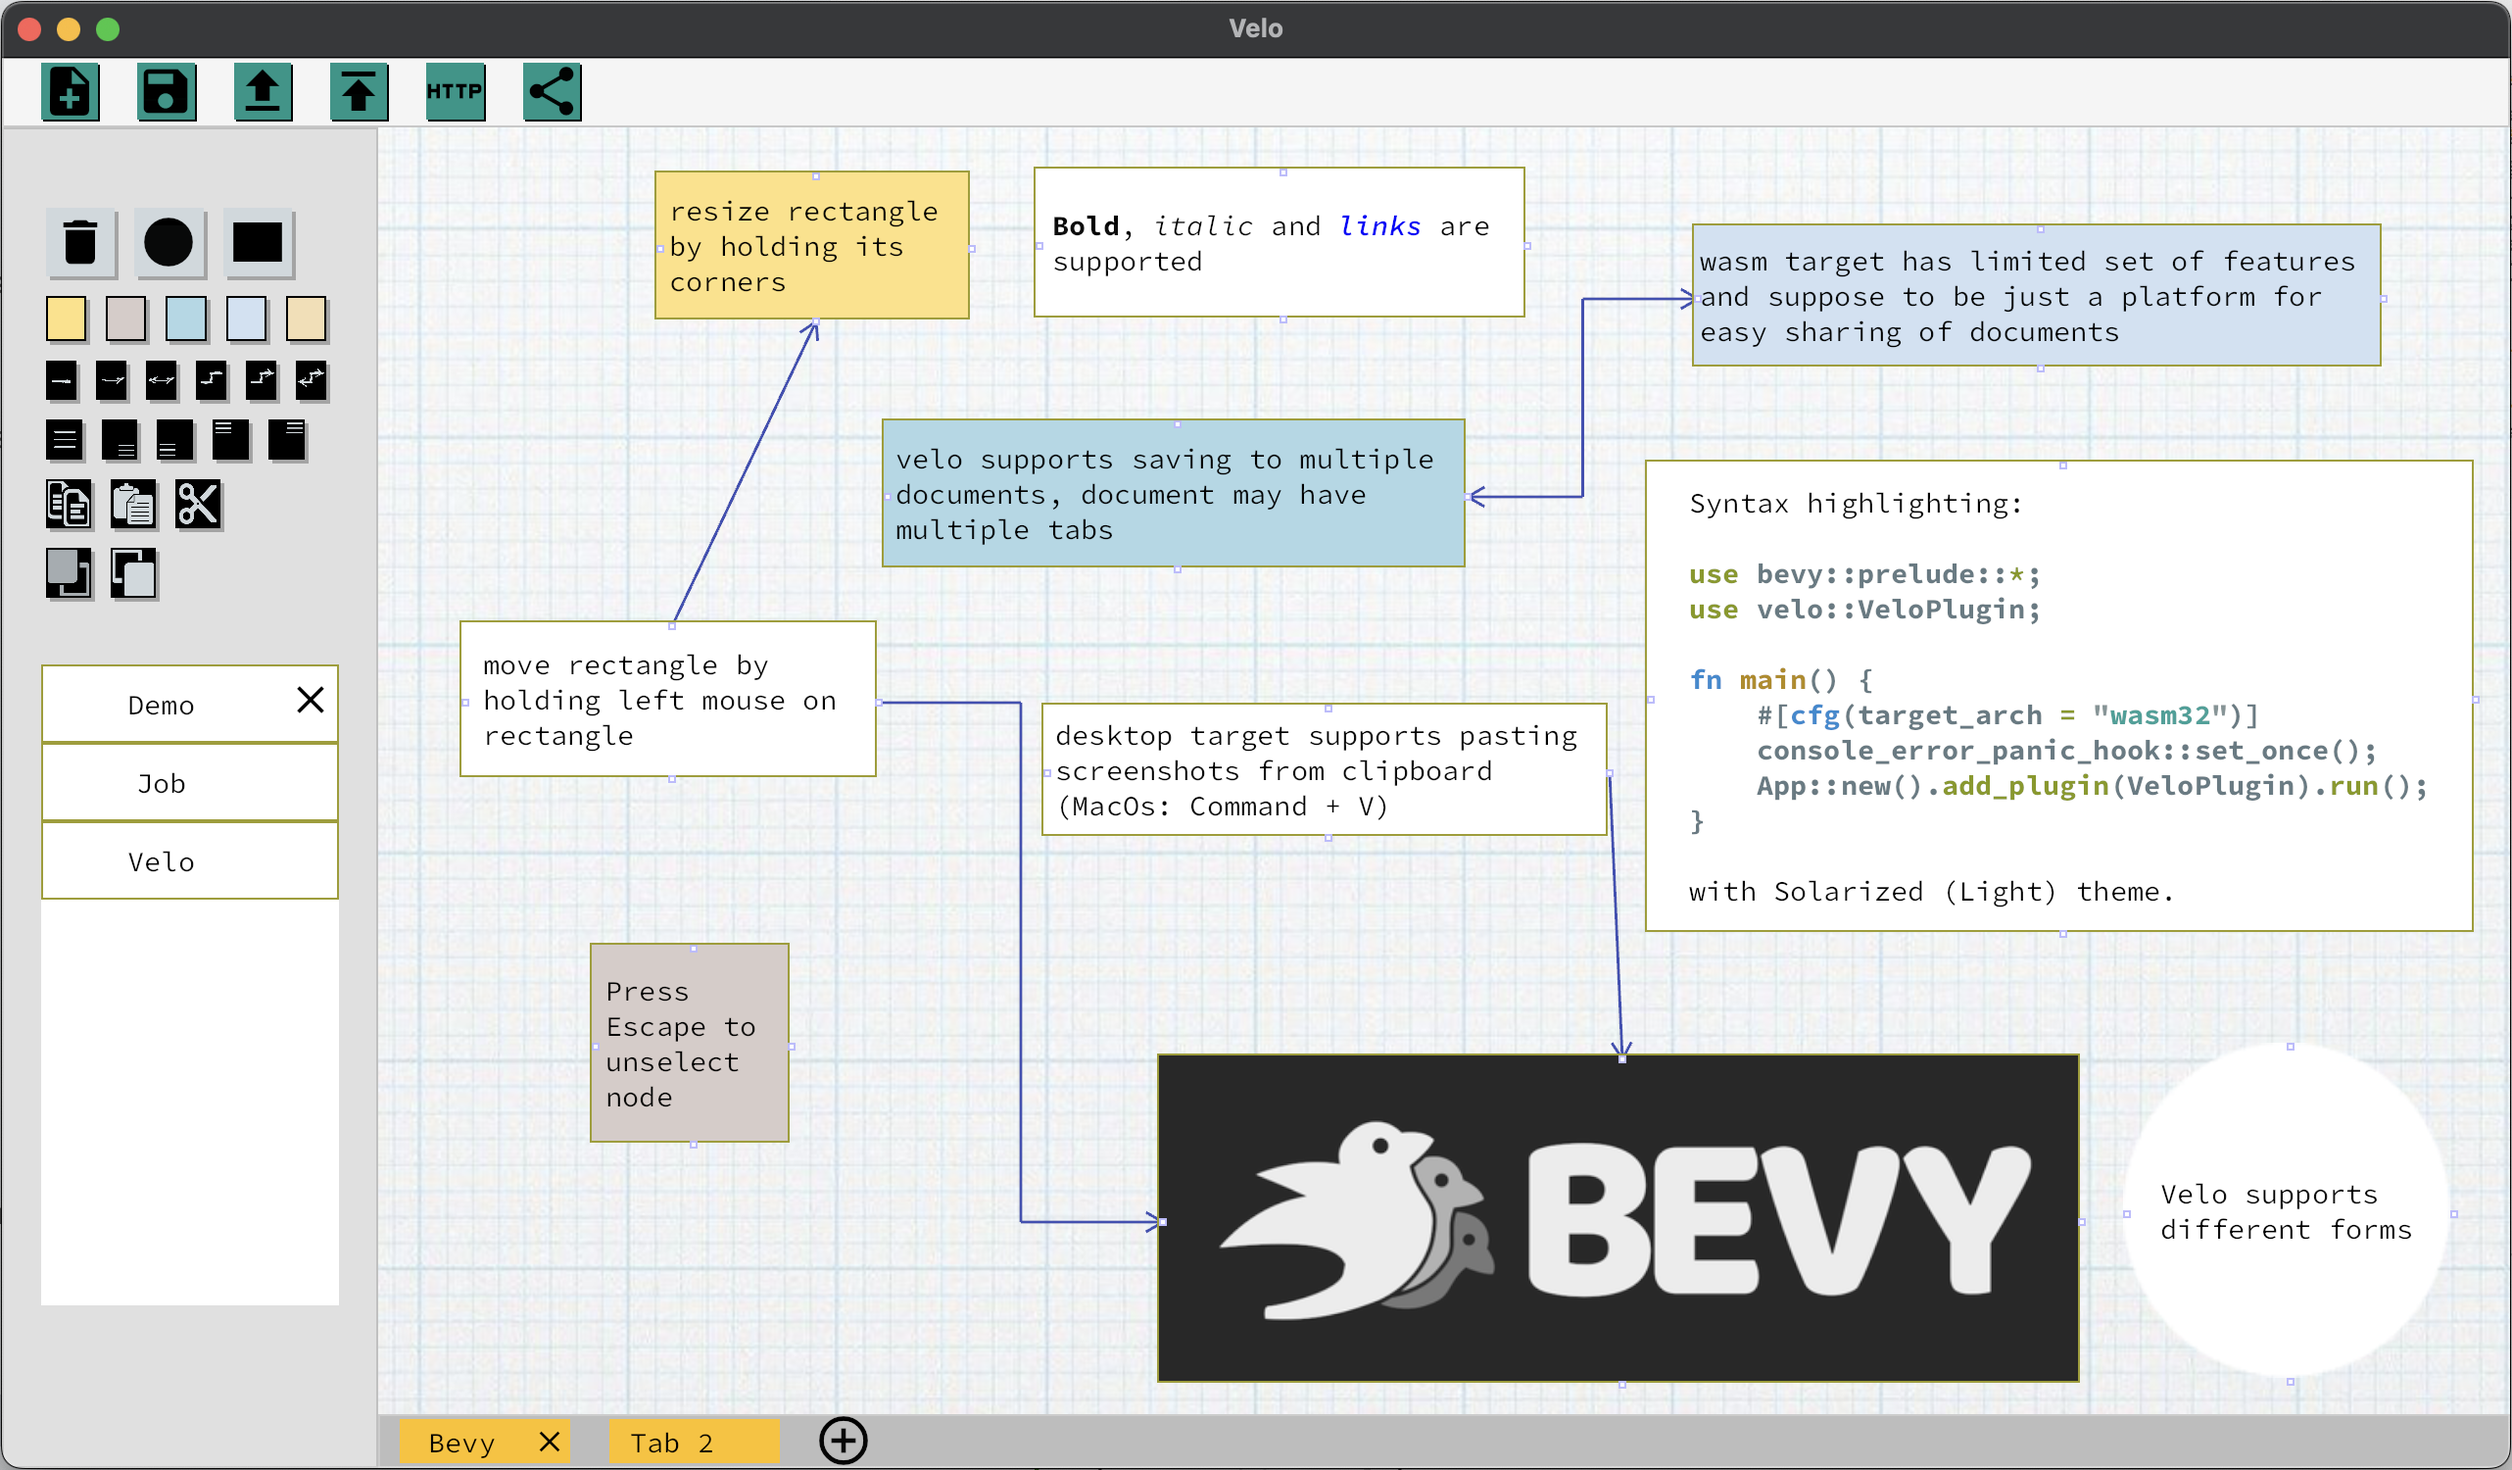
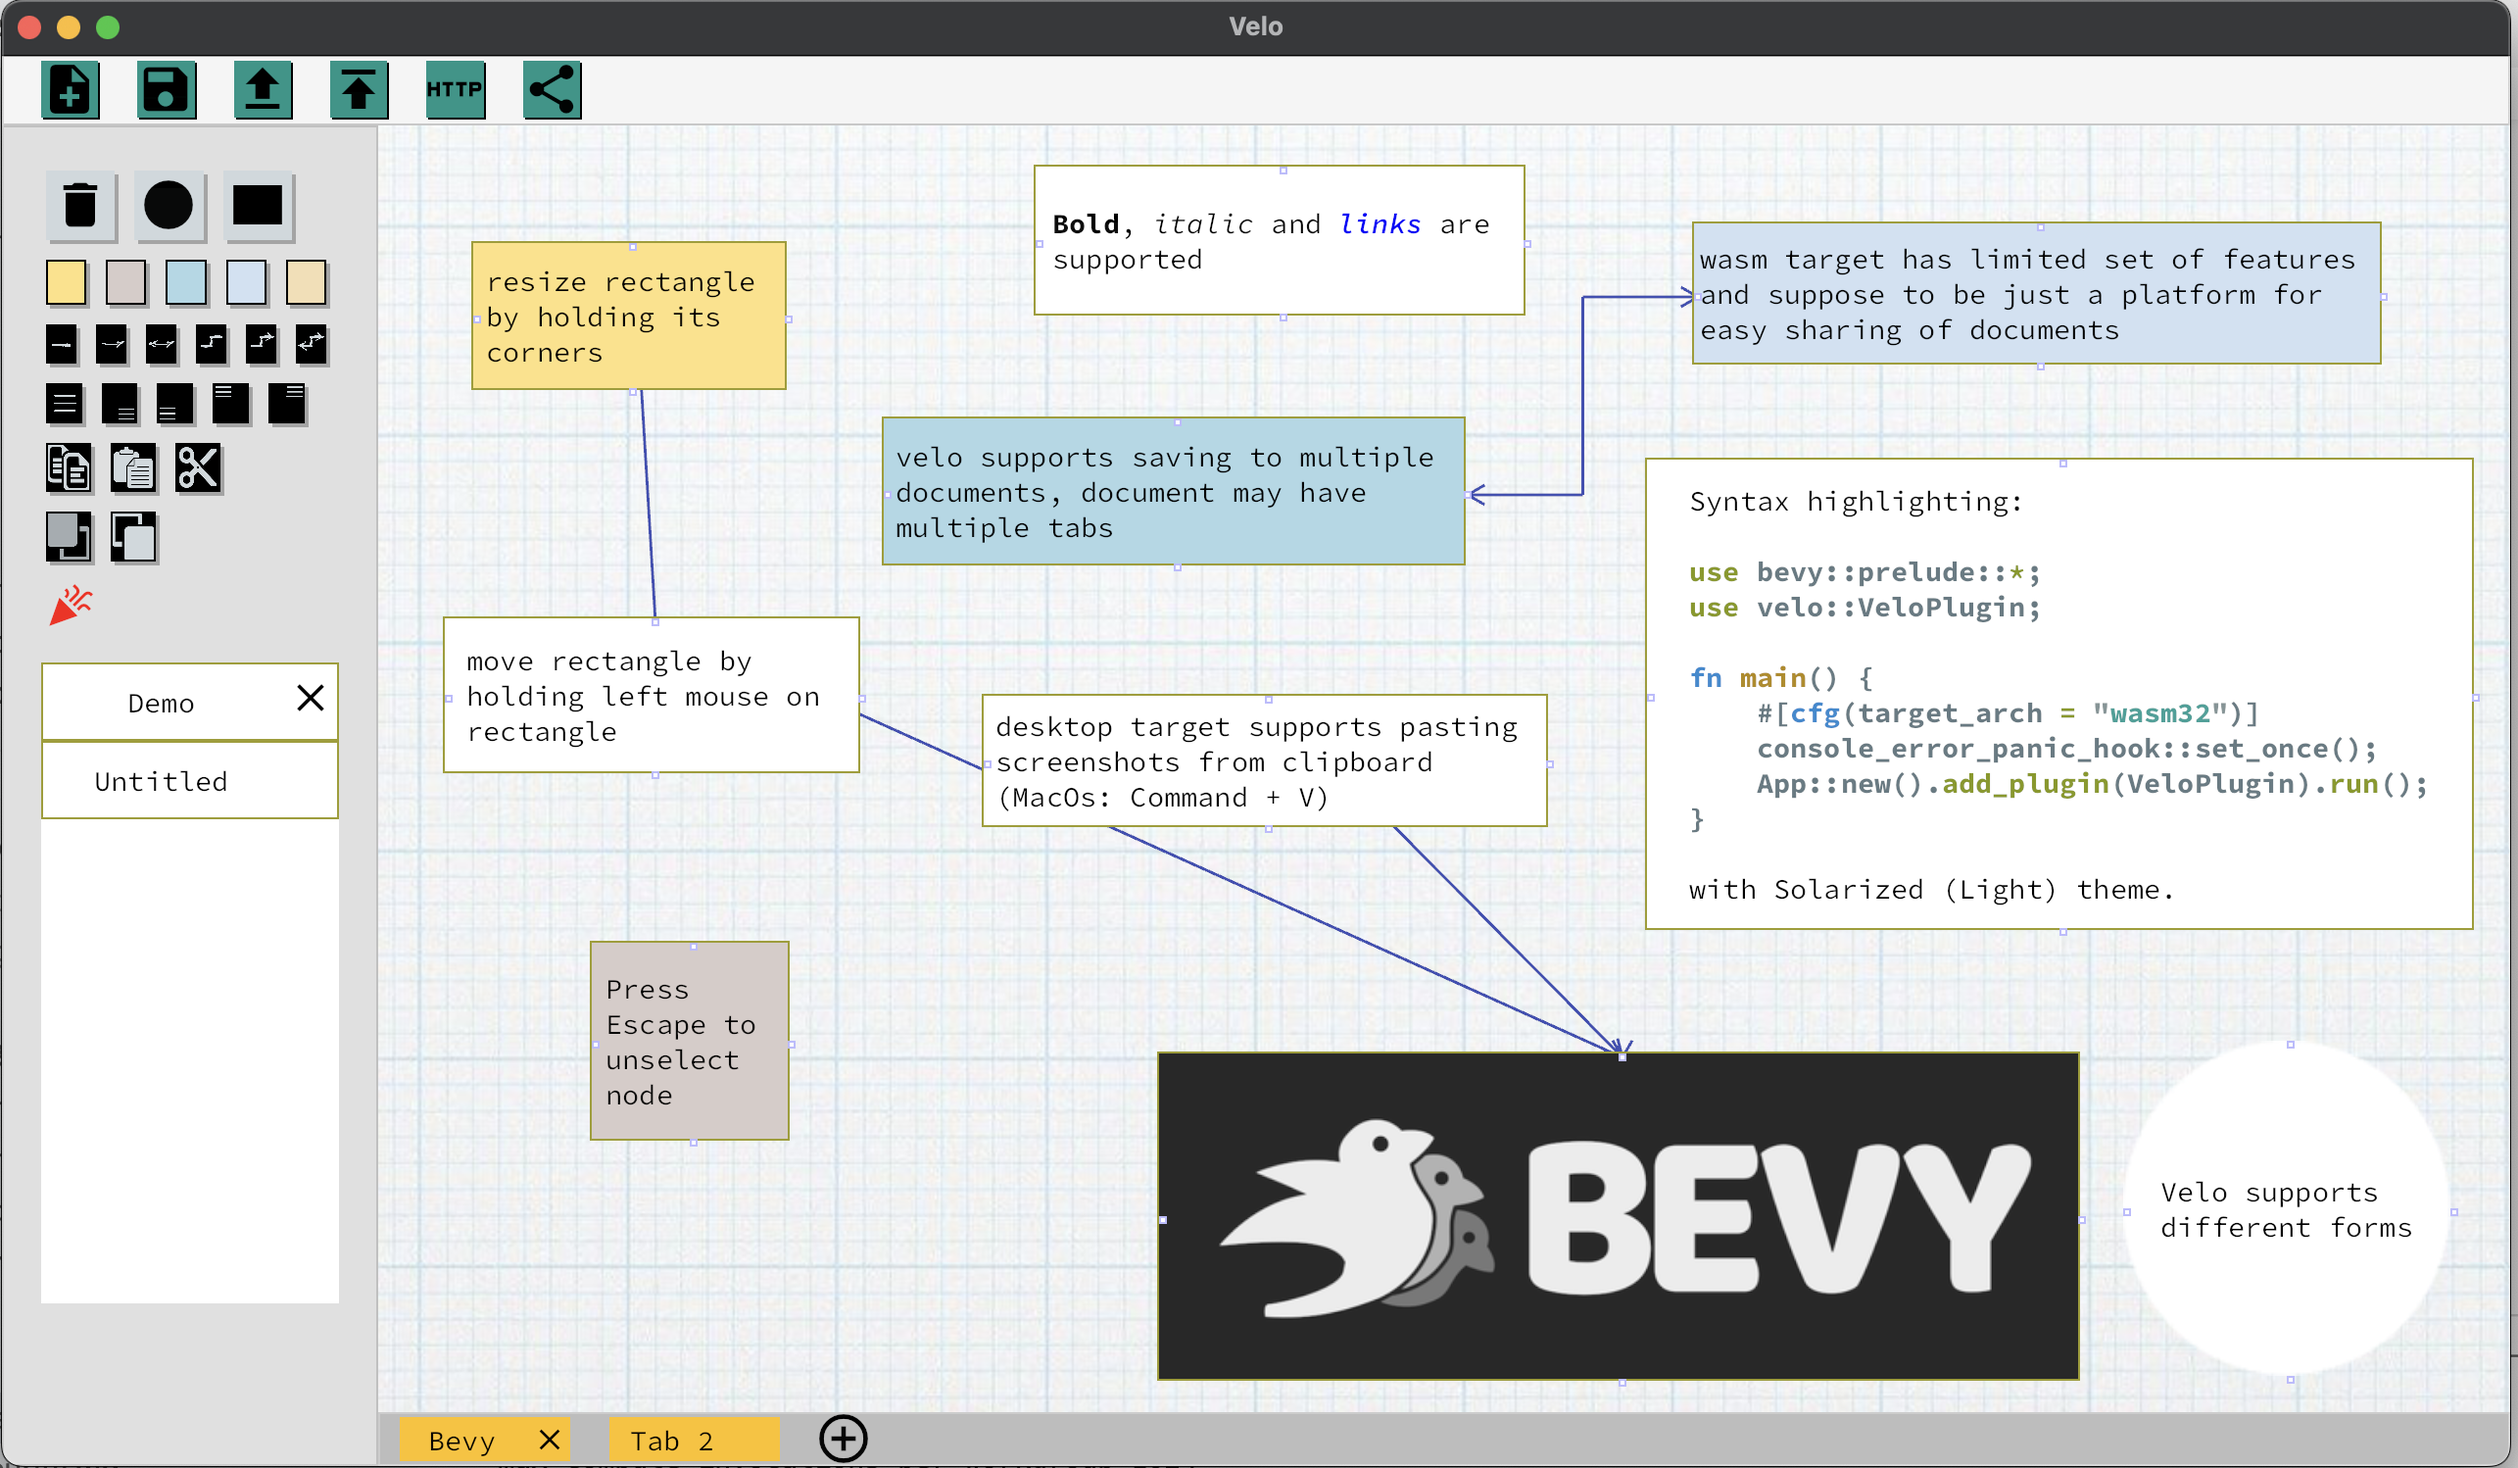
add particles effect

diff --git a/src/lib.rs b/src/lib.rs
@@ -41,7 +41,8 @@ impl Plugin for VeloPlugin {
             .add_plugin(CanvasPlugin)
             .add_plugin(UiPlugin)
             .add_plugin(BordersPlugin)
-            .insert_resource(PkvStore::new("test", "velo"));
+            .insert_resource(PkvStore::new("", "velo"));
+            
         #[cfg(not(target_arch = "wasm32"))]
         app.add_plugin(HanabiPlugin);
     }
